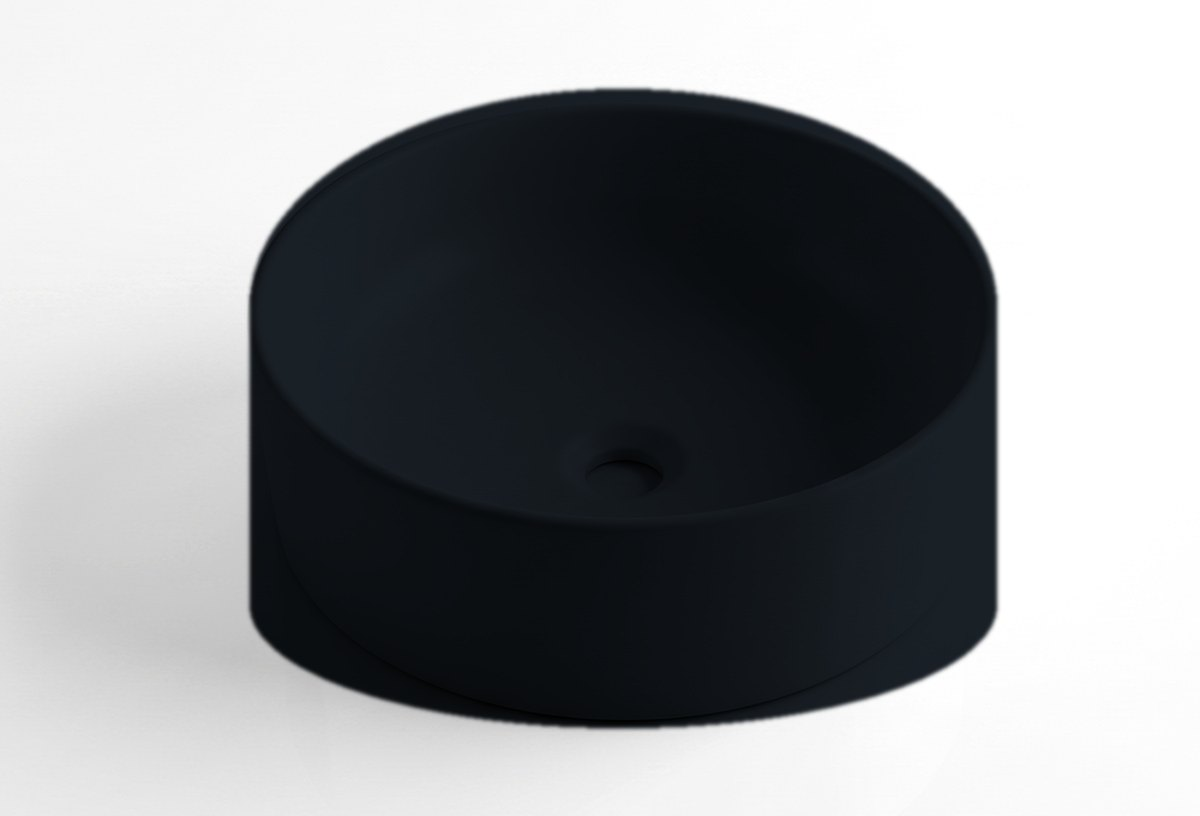
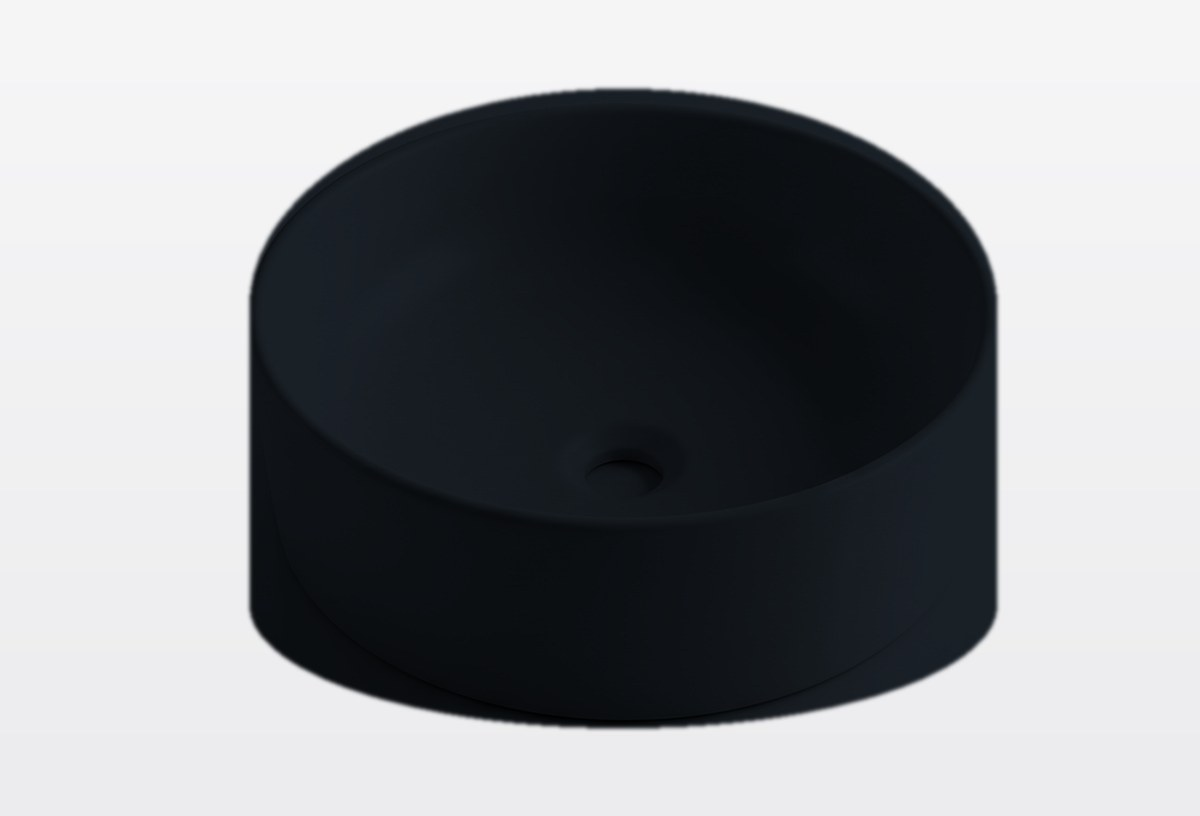
Auto: site update 2026-07-26 14:44:16

Changed region(s): [[0.0, 0.4596, 0.4933, 0.9191]]

diff --git a/assets/css/styles.css b/assets/css/styles.css
@@ -603,7 +603,7 @@ form{display:grid;grid-template-columns:1fr 1fr;gap:18px}
   border-bottom:1px solid var(--line-soft)}
 .ql-studio-grid{display:grid;grid-template-columns:1.25fr .75fr;gap:clamp(30px,5vw,64px);align-items:center}
 .ql-stage{position:relative;border-radius:8px;overflow:hidden;border:1px solid var(--line);
-  background:#EDEDEE;box-shadow:0 40px 80px -50px rgba(0,0,0,.9);aspect-ratio:1200/816}
+  background:#F5F5F6;box-shadow:0 40px 80px -50px rgba(0,0,0,.9);aspect-ratio:1200/816}
 .ql-stage img{position:absolute;inset:0;width:100%;height:100%;object-fit:cover;display:block;
   opacity:0;transition:opacity .5s var(--ease)}
 .ql-stage img.is-on{opacity:1}
@@ -681,16 +681,6 @@ form{display:grid;grid-template-columns:1fr 1fr;gap:18px}
 .ql-apply-grid div:hover{background:var(--bg-3)}
 .ql-apply-grid .n{font-size:.6rem;letter-spacing:.2em;color:var(--gold);font-weight:600}
 .ql-apply-grid .t{font-family:var(--serif);font-size:1.12rem}
-
-/* applied gallery */
-.ql-gallery{padding-block:clamp(52px,8vw,100px)}
-.ql-gal-grid{display:grid;grid-template-columns:repeat(auto-fit,minmax(230px,1fr));gap:18px;
-  margin-top:clamp(28px,4vw,44px)}
-.ql-gal-grid figure{margin:0;border:1px solid var(--line);border-radius:6px;overflow:hidden;
-  background:var(--bg-2)}
-.ql-gal-grid img{width:100%;height:230px;object-fit:cover;display:block}
-.ql-gal-grid figcaption{padding:13px 15px 16px;font-family:var(--sans);font-size:.63rem;
-  letter-spacing:.16em;text-transform:uppercase;color:var(--ink-faint);font-weight:600}
 
 @media(max-width:900px){
   .ql-studio-grid{grid-template-columns:1fr}

diff --git a/collections/quiet-light.html b/collections/quiet-light.html
@@ -180,22 +180,6 @@
     </div>
   </section>
 
-  <!-- APPLIED — REAL PIECES -->
-  <section class="ql-gallery wrap">
-    <div class="fb-sec-head">
-      <div class="sec-num">From the kiln</div>
-      <h2>Glazed, fired, <em>real.</em></h2>
-    </div>
-    <p class="lead">Pieces from our own production floor &mdash; the tones as they leave the kiln, before any styling.</p>
-    <div class="ql-gal-grid">
-      <figure><img src="/assets/images/quiet-light/prod-carbon.jpg" alt="Vessel basin glazed in Carbon" loading="lazy"><figcaption>Carbon &middot; Vessel basin</figcaption></figure>
-      <figure><img src="/assets/images/quiet-light/prod-graphite.jpg" alt="Vessel basin glazed in Graphite" loading="lazy"><figcaption>Graphite &middot; Vessel basin</figcaption></figure>
-      <figure><img src="/assets/images/quiet-light/prod-ash.jpg" alt="Vessel basin glazed in Ash" loading="lazy"><figcaption>Ash &middot; Vessel basin</figcaption></figure>
-      <figure><img src="/assets/images/quiet-light/prod-cotton.jpg" alt="Vessel basin glazed in Cotton" loading="lazy"><figcaption>Cotton &middot; Vessel basin</figcaption></figure>
-      <figure><img src="/assets/images/quiet-light/prod-earth.jpg" alt="Counter basins glazed in Terracotta and Dusty Rose" loading="lazy"><figcaption>Terracotta &amp; Dusty Rose &middot; Counter basins</figcaption></figure>
-    </div>
-  </section>
-
   <!-- CTA -->
   <section class="fb-cta">
     <div class="wrap fb-cta-in">
